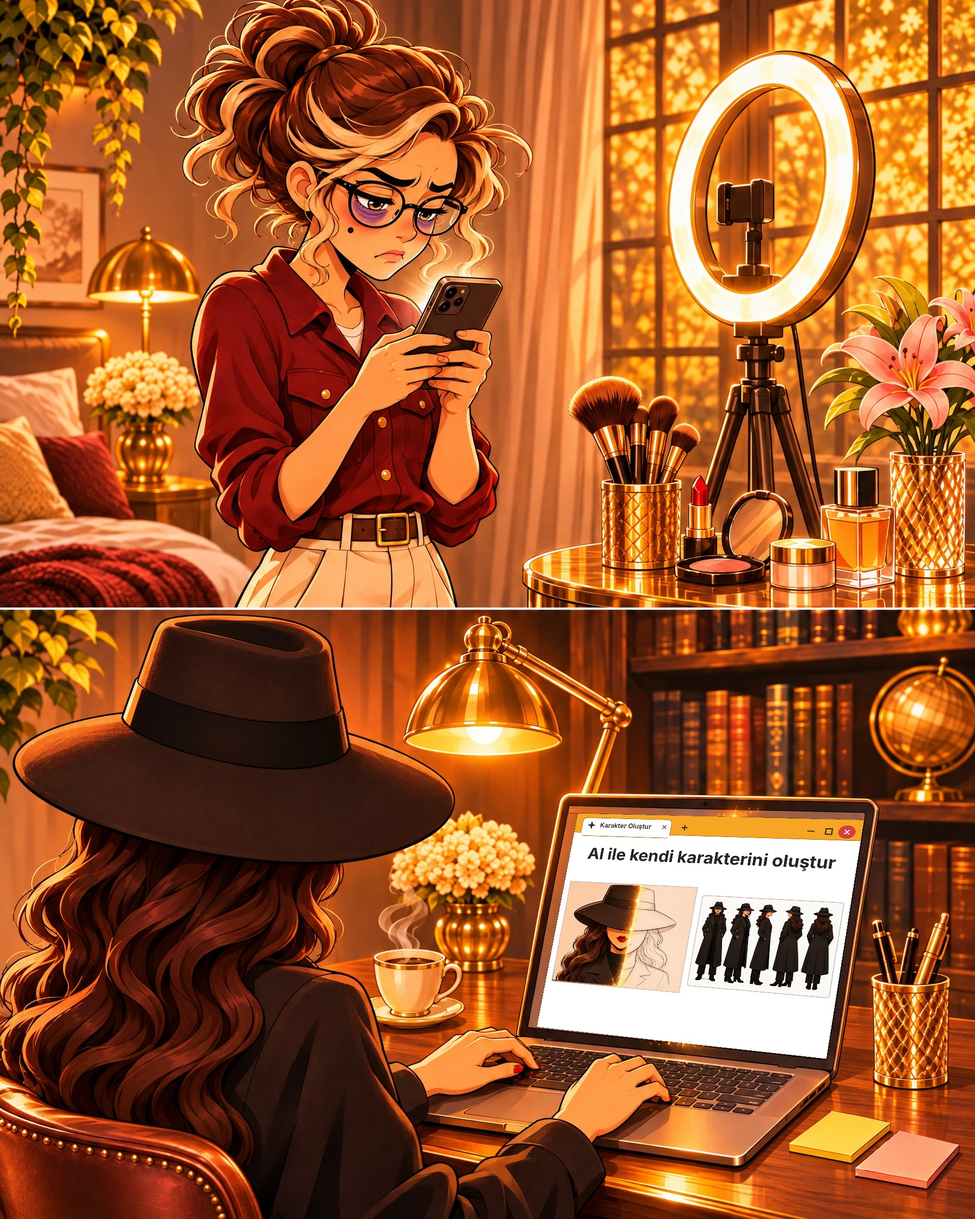
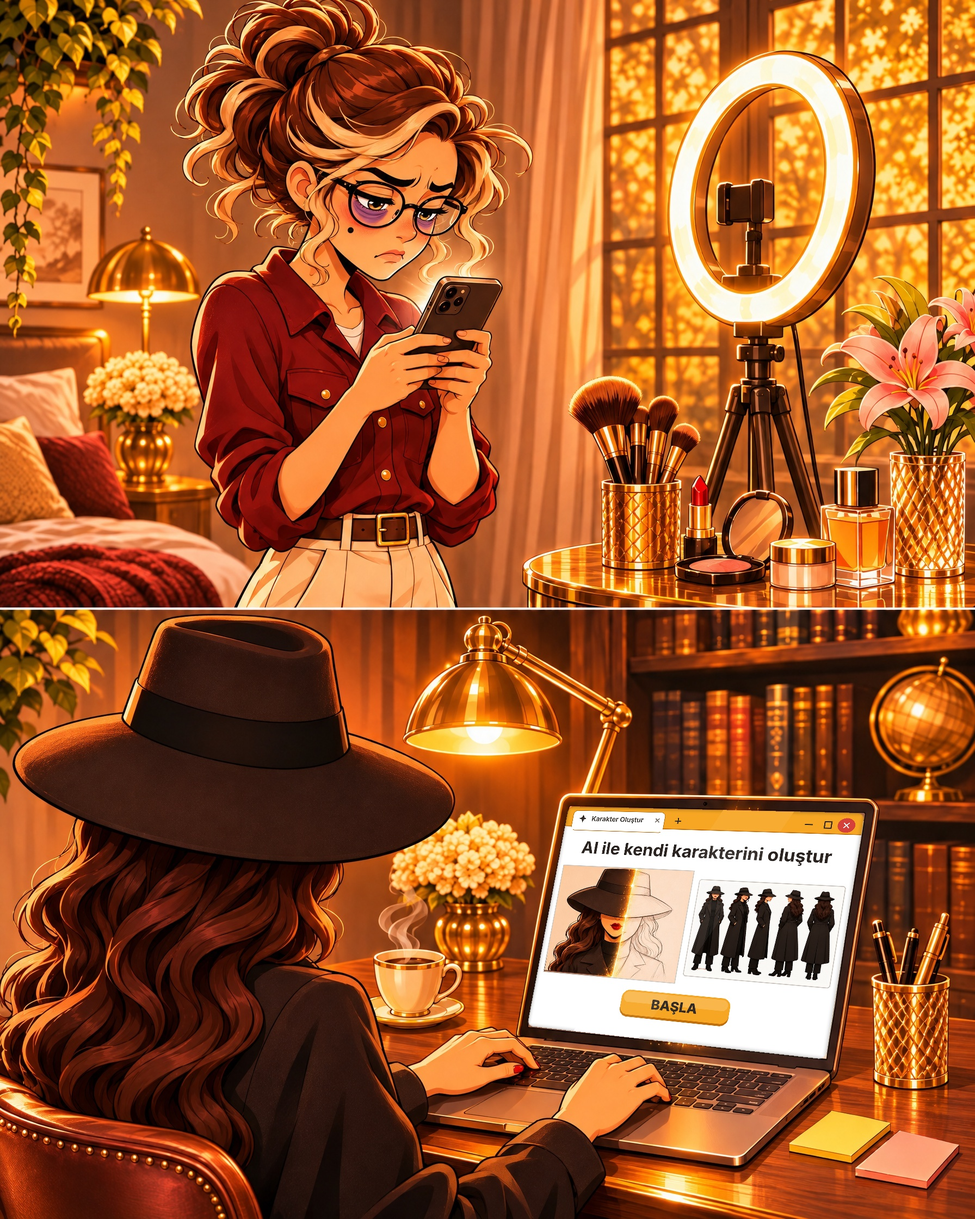
Post6 sayfa 3: ekran camın tamamına oturtuldu, amber BAŞLA butonu eklendi
Claude-Session: https://claude.ai/code/session_01DJnELUg2datGduMzoawH2g

Changed region(s): [[0.5312, 0.6562, 0.9062, 0.8438]]

diff --git a/dark-money/tools/post6_sayfa3_laptop.py b/dark-money/tools/post6_sayfa3_laptop.py
@@ -1,15 +1,18 @@
-"""Post6 sayfa 3: laptop ekranında yarı çizilmiş portre sola kayar, sağına karakter haritasından
-paltolu kadının önden / çapraz / yandan / arkadan boy görünümleri eklenir (mimikler ve büyük portre YOK).
-Girdi : post6/yazisiz/kaynak/sayfa3_ilk.jpg + karakter haritası PNG   Çıktı: post6/yazisiz/sayfa3.jpg
+"""Post6 sayfa 3: laptop ekranı bir uygulama penceresi olarak çizilir ve ekranın TÜM camına oturtulur.
+İçerik: amber pencere çubuğu (sekme, yeni sekme, küçült/büyüt/kapat), başlık, sol portre kartı (yarı çizilmiş),
+sağ karakter haritası kartı (paltolu kadının boy görünümleri; mimikler YOK), altta amber BAŞLA butonu.
+Girdi : post6/yazisiz/kaynak/sayfa3_ilk.jpg + kaynak/karakter_haritasi.png   Çıktı: post6/yazisiz/sayfa3.jpg
 """
 import numpy as np
 from PIL import Image, ImageDraw, ImageChops, ImageFilter, ImageFont
 R="/home/user/Diyetisyen-Web/dark-money/images/post6/yazisiz/"
-BASE=R+"kaynak/sayfa3_ilk.jpg"; OUT=R+"sayfa3.jpg"
-SHEET=R+"kaynak/karakter_haritasi.png"
-QUAD=[(1063.9,1496.3),(1586.0,1508.1),(1517.1,1943.9),(988.8,1885.8)]   # ekranın kağıt alanı (sol-üst, sağ-üst, sağ-alt, sol-alt)
-FW,FH=1040,860                                              # düz ekran tuvali
-SHEET_BOX=(325,490,1034,972)                                # paltolu kadın: 5 boy görünüm
+BASE=R+"kaynak/sayfa3_ilk.jpg"; OUT=R+"sayfa3.jpg"; SHEET=R+"kaynak/karakter_haritasi.png"
+FB="/usr/share/fonts/opentype/inter/Inter-"
+PAPER_QUAD=[(1063.9,1496.3),(1586.0,1508.1),(1517.1,1943.9),(988.8,1885.8)]   # eski iç beyaz alan (portreyi çıkarmak için)
+GLASS_QUAD=[(1044.0,1481.0),(1590.8,1493.3),(1518.5,1948.2),(967.4,1886.2)]  # ekran camının tamamı (bezelin iç kenarı)
+SHEET_BOX=(325,490,1034,972)                                                  # paltolu kadın: 5 boy görünüm
+FW,FH=1100,874
+AMBER=(246,166,35); AMBER_D=(196,112,8); INK=(52,44,40); WHITE=(255,255,255); EDGE=(206,198,190)
 
 def coeffs(out_pts,in_pts):
     A=[];b=[]
@@ -17,80 +20,74 @@ def coeffs(out_pts,in_pts):
         A.append([x,y,1,0,0,0,-u*x,-u*y]); b.append(u)
         A.append([0,0,0,x,y,1,-v*x,-v*y]); b.append(v)
     return np.linalg.solve(np.array(A,float),np.array(b,float)).tolist()
-def expand(q,px):
+def grow(q,px):
     cx=sum(p[0] for p in q)/4; cy=sum(p[1] for p in q)/4; o=[]
     for x,y in q:
         dx,dy=x-cx,y-cy; n=(dx*dx+dy*dy)**.5; o.append((x+dx/n*px,y+dy/n*px))
     return o
+def F(w,sz): return ImageFont.truetype(FB+w+".otf",sz)
 
 base=Image.open(BASE).convert("RGB")
-rect=[(0,0),(FW,0),(FW,FH),(0,FH)]
-# 1) mevcut ekranı düzleştir (portre)
-flat=base.transform((FW,FH),Image.PERSPECTIVE,coeffs(rect,QUAD),Image.BICUBIC)
-paper=tuple(int(v) for v in np.median(np.asarray(flat)[90:150,900:1000].reshape(-1,3),axis=0))
-print("kağıt rengi",paper)
-# portrenin sınırlayıcı kutusu (kağıt renginden farklı alan)
-a=np.asarray(flat).astype(int); diff=np.abs(a-np.array(paper)).max(axis=2)>28
-ys,xs=np.where(diff); bx=(max(0,xs.min()-6),max(0,ys.min()-6),min(FW,xs.max()+6),min(FH,ys.max()+6)); print("portre kutusu",bx)
-portrait=flat.crop(bx)
+# 1) portre: eski ekrandan düzleştirip al
+PW,PH=1040,860
+portrait=base.transform((PW,PH),Image.PERSPECTIVE,coeffs([(0,0),(PW,0),(PW,PH),(0,PH)],PAPER_QUAD),Image.BICUBIC)
 
-# 2) yeni düz ekran: sol portre kartı, sağ karakter haritası kartı
-BG=(255,255,255); CARD=(252,250,247); EDGE=(206,198,190)
-canvas=Image.new("RGB",(FW,FH),BG); d=ImageDraw.Draw(canvas)
-GAP=22; CW=(FW-3*GAP)//2
-# portre kartı
-pw,ph=portrait.size; s=CW/pw
-p2=portrait.resize((CW,int(ph*s)),Image.LANCZOS)
-py=(FH-p2.size[1])//2
-canvas.paste(p2,(GAP,py)); d.rectangle([GAP,py,GAP+CW,py+p2.size[1]],outline=EDGE,width=3)
-# karakter haritası kartı (paltolu kadın, 5 boy görünüm)
-sh=Image.open(SHEET).convert("RGB").crop(SHEET_BOX)
-sw,sh_=sh.size; s2=(CW-24)/sw
-t=sh.resize((CW-24,int(sh_*s2)),Image.LANCZOS)
-t=ImageChops.multiply(t,Image.new("RGB",t.size,CARD))
-ch=t.size[1]+30; cy0=(FH-ch)//2; cx0=2*GAP+CW
-d.rounded_rectangle([cx0,cy0,cx0+CW,cy0+ch],10,fill=CARD,outline=EDGE,width=3)
+# 2) düz pencere tuvali
+canvas=Image.new("RGB",(FW,FH),WHITE); d=ImageDraw.Draw(canvas)
+HB=78
+# ---- pencere çubuğu (en üstte, camın kenarına bitişik)
+d.rectangle([0,0,FW,HB],fill=AMBER); d.line([(0,HB),(FW,HB)],fill=AMBER_D,width=3)
+d.rounded_rectangle([26,14,392,HB+16],18,fill=WHITE,outline=AMBER_D,width=2)
+d.rectangle([28,HB-3,390,HB+12],fill=WHITE)
+cx_,cy_=68,46
+d.polygon([(cx_,cy_-15),(cx_+4,cy_-4),(cx_+15,cy_),(cx_+4,cy_+4),(cx_,cy_+15),(cx_-4,cy_+4),(cx_-15,cy_),(cx_-4,cy_-4)],fill=INK)
+d.text((104,46),"Karakter Oluştur",font=F("SemiBold",26),fill=INK,anchor="lm")
+for o in ((-7,-7,7,7),(-7,7,7,-7)): d.line([(364+o[0],46+o[1]),(364+o[2],46+o[3])],fill=(120,108,100),width=3)
+d.line([(432,46),(454,46)],fill=INK,width=4); d.line([(443,35),(443,57)],fill=INK,width=4)
+d.line([(FW-196,46),(FW-170,46)],fill=INK,width=4)
+d.rectangle([FW-130,33,FW-104,59],outline=INK,width=4)
+d.ellipse([FW-84,20,FW-26,72],fill=(214,64,58))
+for o in ((-9,-9,9,9),(-9,9,9,-9)): d.line([(FW-55+o[0],46+o[1]),(FW-55+o[2],46+o[3])],fill=WHITE,width=5)
+
+# ---- başlık
+TITLE="AI ile kendi karakterini oluştur"
+tf=F("Bold",64)
+while d.textlength(TITLE,font=tf)>FW*0.9: tf=F("Bold",tf.size-2)
+d.text((FW/2,HB+84),TITLE,font=tf,fill=(44,36,32),anchor="mm")
+
+# ---- kartlar
+GAP=24; CW=(FW-3*GAP)//2; ROW0=HB+156
+pw,ph=portrait.size; p2=portrait.resize((CW,int(ph*CW/pw)),Image.LANCZOS); rowh=p2.size[1]
+canvas.paste(p2,(GAP,ROW0)); d.rectangle([GAP,ROW0,GAP+CW,ROW0+rowh],outline=EDGE,width=3)
+sh=Image.open(SHEET).convert("RGB").crop(SHEET_BOX); sw,sh_=sh.size
+t=sh.resize((CW-24,int(sh_*(CW-24)/sw)),Image.LANCZOS); t=ImageChops.multiply(t,Image.new("RGB",t.size,(252,250,247)))
+ch=t.size[1]+30; cy0=ROW0+(rowh-ch)//2; cx0=2*GAP+CW
+d.rounded_rectangle([cx0,cy0,cx0+CW,cy0+ch],10,fill=(252,250,247),outline=EDGE,width=3)
 canvas.paste(t,(cx0+12,cy0+15))
 
-# ekran başlığı
-TITLE="AI ile kendi karakterini oluştur"
-tf=ImageFont.truetype("/usr/share/fonts/opentype/inter/Inter-Bold.otf",62)
-while d.textlength(TITLE,font=tf)>FW*0.9: tf=ImageFont.truetype("/usr/share/fonts/opentype/inter/Inter-Bold.otf",tf.size-2)
-top_card=min(py,cy0)
-d.text((FW/2,top_card/2),TITLE,font=tf,fill=(44,36,32),anchor="mm")
+# ---- amber BAŞLA butonu (kartların altında, ortalı)
+BW,BH=400,92; bx=(FW-BW)//2; by=ROW0+rowh+38
+d.rounded_rectangle([bx,by+8,bx+BW,by+BH+8],30,fill=AMBER_D)          # alt kalınlık
+d.rounded_rectangle([bx,by,bx+BW,by+BH],30,fill=AMBER)
+hl=Image.new("RGBA",(BW,BH//2),(255,255,255,0)); hd=ImageDraw.Draw(hl)
+hd.rounded_rectangle([8,6,BW-8,BH//2],24,fill=(255,255,255,46))
+canvas.paste(hl,(bx,by),hl)
+d.text((bx+BW/2,by+BH/2+1),"BAŞLA",font=F("ExtraBold",50),fill=INK,anchor="mm")
 
-canvas=ImageChops.offset(canvas,0,46)   # başlık + kartlar bloğunu dikeyde ortala
+# ---- cam hissi: kenarlara hafif iç gölge + çapraz yansıma
+ov=Image.new("RGBA",(FW,FH),(0,0,0,0)); od=ImageDraw.Draw(ov)
+for i in range(18):
+    a=int(46*(1-i/18)**2)
+    od.rectangle([i,i,FW-1-i,FH-1-i],outline=(0,0,0,a),width=1)
+od.polygon([(FW*0.55,0),(FW*0.78,0),(FW*0.40,FH),(FW*0.17,FH)],fill=(255,255,255,16))
+canvas=Image.alpha_composite(canvas.convert("RGBA"),ov).convert("RGB")
 
-# ---- uygulama penceresi çubuğu: sekme + yeni sekme + küçült / büyüt / kapat
-canvas=canvas.copy(); w=ImageDraw.Draw(canvas)
-HB=76; BARC=(246,166,35); AMB_D=(196,112,8); INK2=(52,44,40)
-w.rectangle([0,0,FW,HB],fill=BARC)
-w.line([(0,HB),(FW,HB)],fill=AMB_D,width=2)
-# açık sekme (üstü yuvarlak, içeriğe bitişik)
-w.rounded_rectangle([26,16,372,HB+14],16,fill=(255,255,255),outline=AMB_D,width=2)
-w.rectangle([28,HB-2,370,HB+10],fill=(255,255,255))
-# sekme ikonu: dört köşeli parıltı
-cx_,cy_=64,46
-for dx,dy in ((0,-13),(13,0),(0,13),(-13,0)): w.line([(cx_,cy_),(cx_+dx,cy_+dy)],fill=INK2,width=4)
-w.polygon([(cx_,cy_-14),(cx_+4,cy_-4),(cx_+14,cy_),(cx_+4,cy_+4),(cx_,cy_+14),(cx_-4,cy_+4),(cx_-14,cy_),(cx_-4,cy_-4)],fill=INK2)
-tf2=ImageFont.truetype("/usr/share/fonts/opentype/inter/Inter-SemiBold.otf",25)
-w.text((98,46),"Karakter Oluştur",font=tf2,fill=INK2,anchor="lm")
-# sekme kapat (küçük x)
-for o in ((-7,-7,7,7),(-7,7,7,-7)): w.line([(346+o[0],46+o[1]),(346+o[2],46+o[3])],fill=(120,108,100),width=3)
-# yeni sekme +
-w.line([(412,46),(432,46)],fill=INK2,width=4); w.line([(422,36),(422,56)],fill=INK2,width=4)
-# pencere denetimleri (sağ üst)
-w.line([(FW-182,46),(FW-158,46)],fill=INK2,width=4)                                 # küçült
-w.rectangle([FW-122,34,FW-98,58],outline=INK2,width=4)                              # büyüt
-w.ellipse([FW-78,22,FW-22,70],fill=(214,64,58))                                     # kapat
-for o in ((-8,-8,8,8),(-8,8,8,-8)): w.line([(FW-50+o[0],46+o[1]),(FW-50+o[2],46+o[3])],fill=(255,255,255),width=5)
-
-# 3) tekrar eğimle ekrana yerleştir
-dq=expand(QUAD,2.5)
+# 3) ekranın tüm camına perspektifle oturt (yuvarlak köşeli maske)
+dq=grow(GLASS_QUAD,-1.5)
+rect=[(0,0),(FW,0),(FW,FH),(0,FH)]
 layer=canvas.transform(base.size,Image.PERSPECTIVE,coeffs(dq,rect),Image.BICUBIC)
-mask=Image.new("L",(base.size[0]*3,base.size[1]*3),0)
-ImageDraw.Draw(mask).polygon([(x*3,y*3) for x,y in dq],fill=255)
-mask=mask.resize(base.size,Image.LANCZOS)
+rm=Image.new("L",(FW,FH),0); ImageDraw.Draw(rm).rounded_rectangle([0,0,FW-1,FH-1],26,fill=255)
+mask=rm.transform(base.size,Image.PERSPECTIVE,coeffs(dq,rect),Image.BICUBIC).filter(ImageFilter.GaussianBlur(0.8))
 Image.composite(layer,base,mask).save(OUT,quality=95)
 canvas.save("/tmp/claude-0/-home-user-Diyetisyen-Web/e41dd7e6-c0f5-56e1-b80a-11bb233e9350/scratchpad/p5/crops/s3_flat.png")
 print("ok",OUT)
